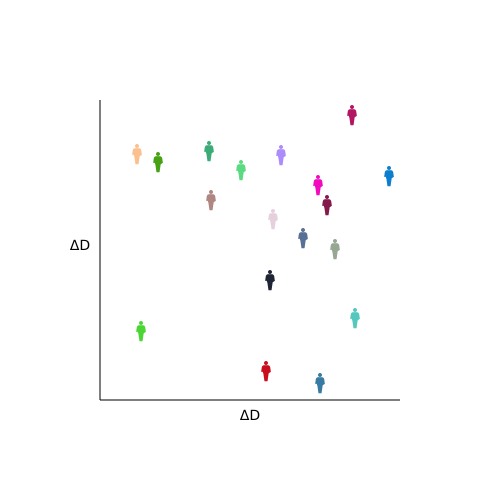
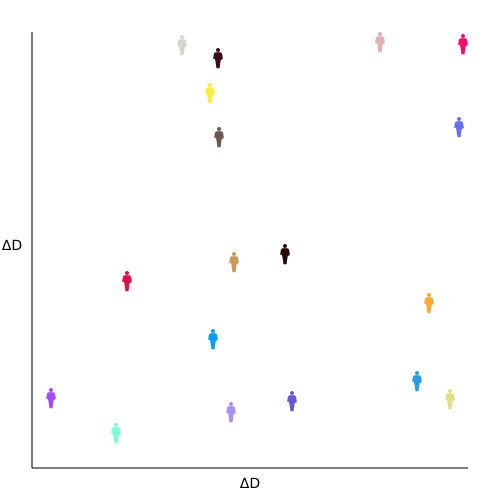
v1 of the new landing page

diff --git a/utils/draw_cohort_mode_representation.py b/utils/draw_cohort_mode_representation.py
@@ -22,7 +22,7 @@ def setup(filename):
 
   # pixels from the edge of the SVG canvas towards the center
   # increase the value to move the axes closer to human figures
-  padding = 100
+  padding = 32
   draw_axes(dwg, svg_size, padding)
       
   # Parse the SVG file for the human figure
@@ -126,7 +126,7 @@ pats_count = 18
 
 if mode == "both":
   intra_cohort_mode_representation(pats_count)
-  intra_cohort_mode_representation(pats_count)
+  inter_cohort_mode_representation(pats_count)
 
 elif mode == "intra":
   intra_cohort_mode_representation(pats_count)
